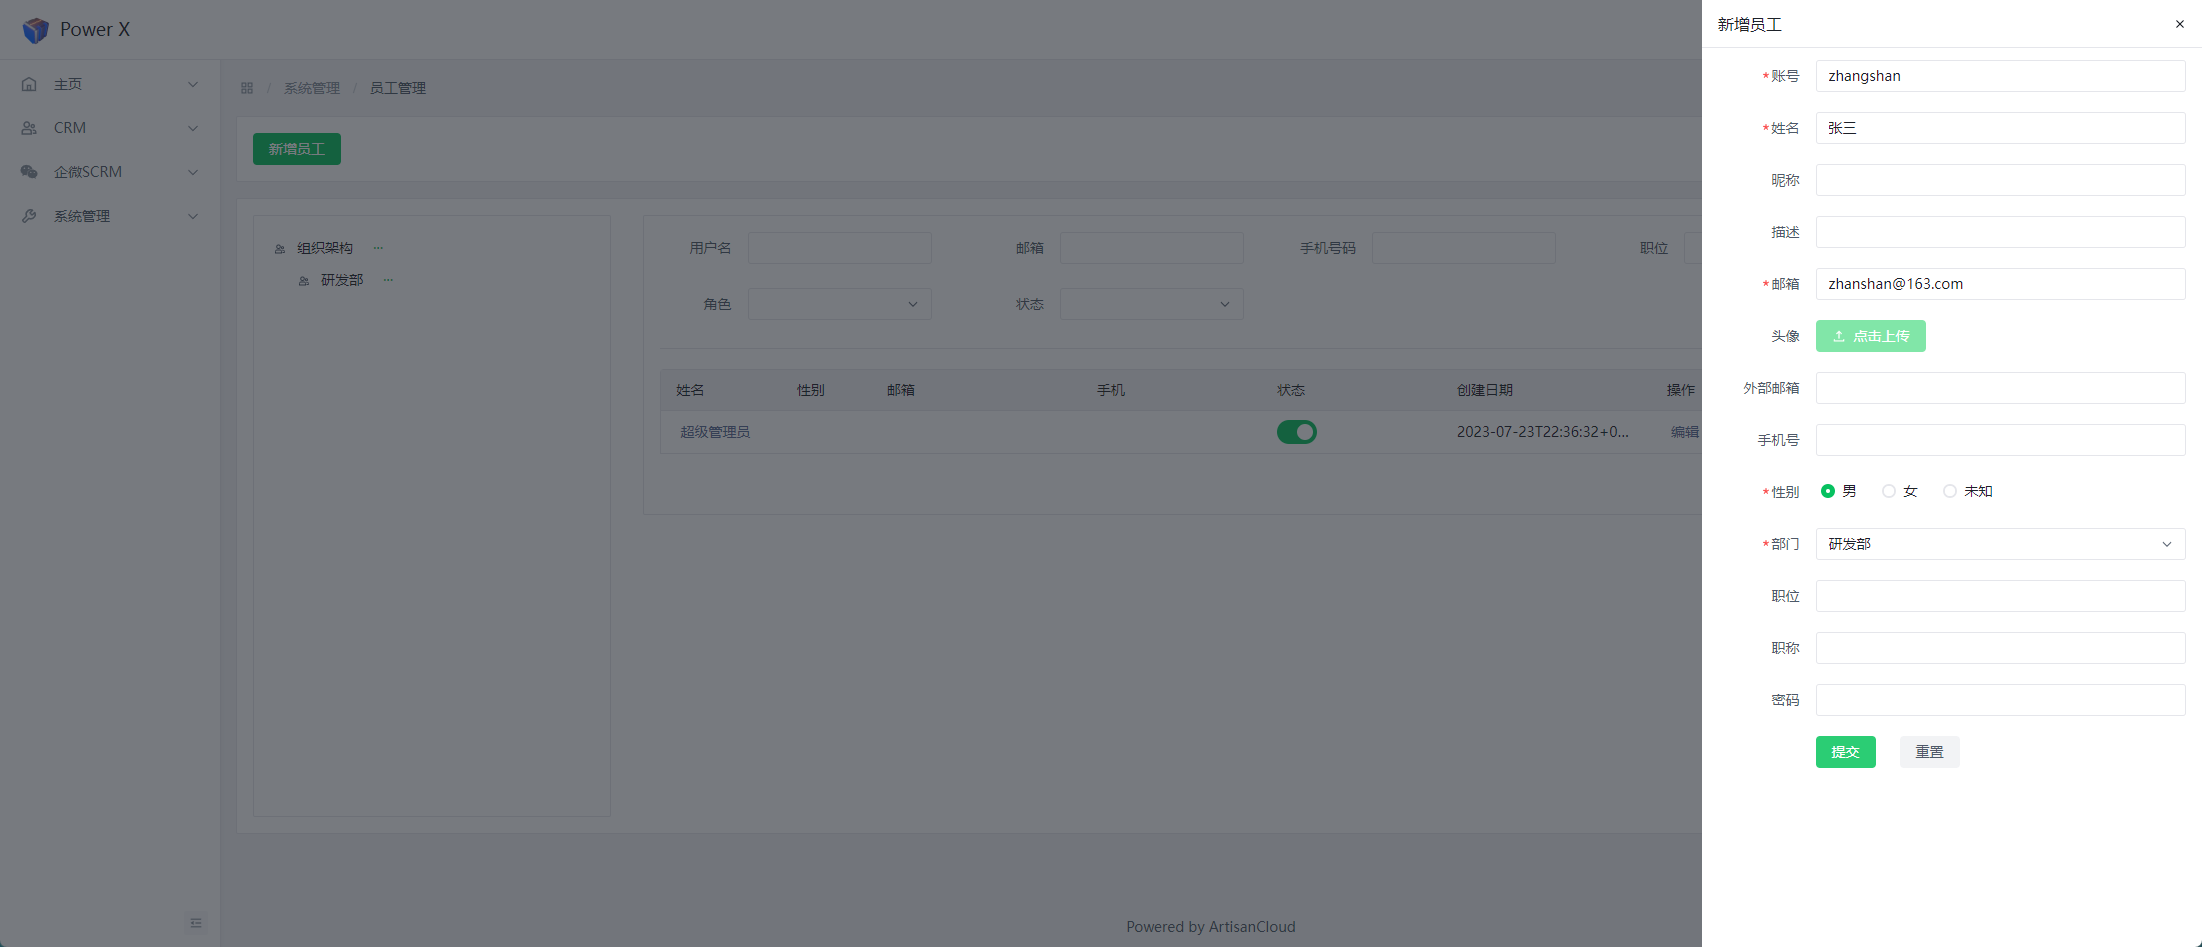
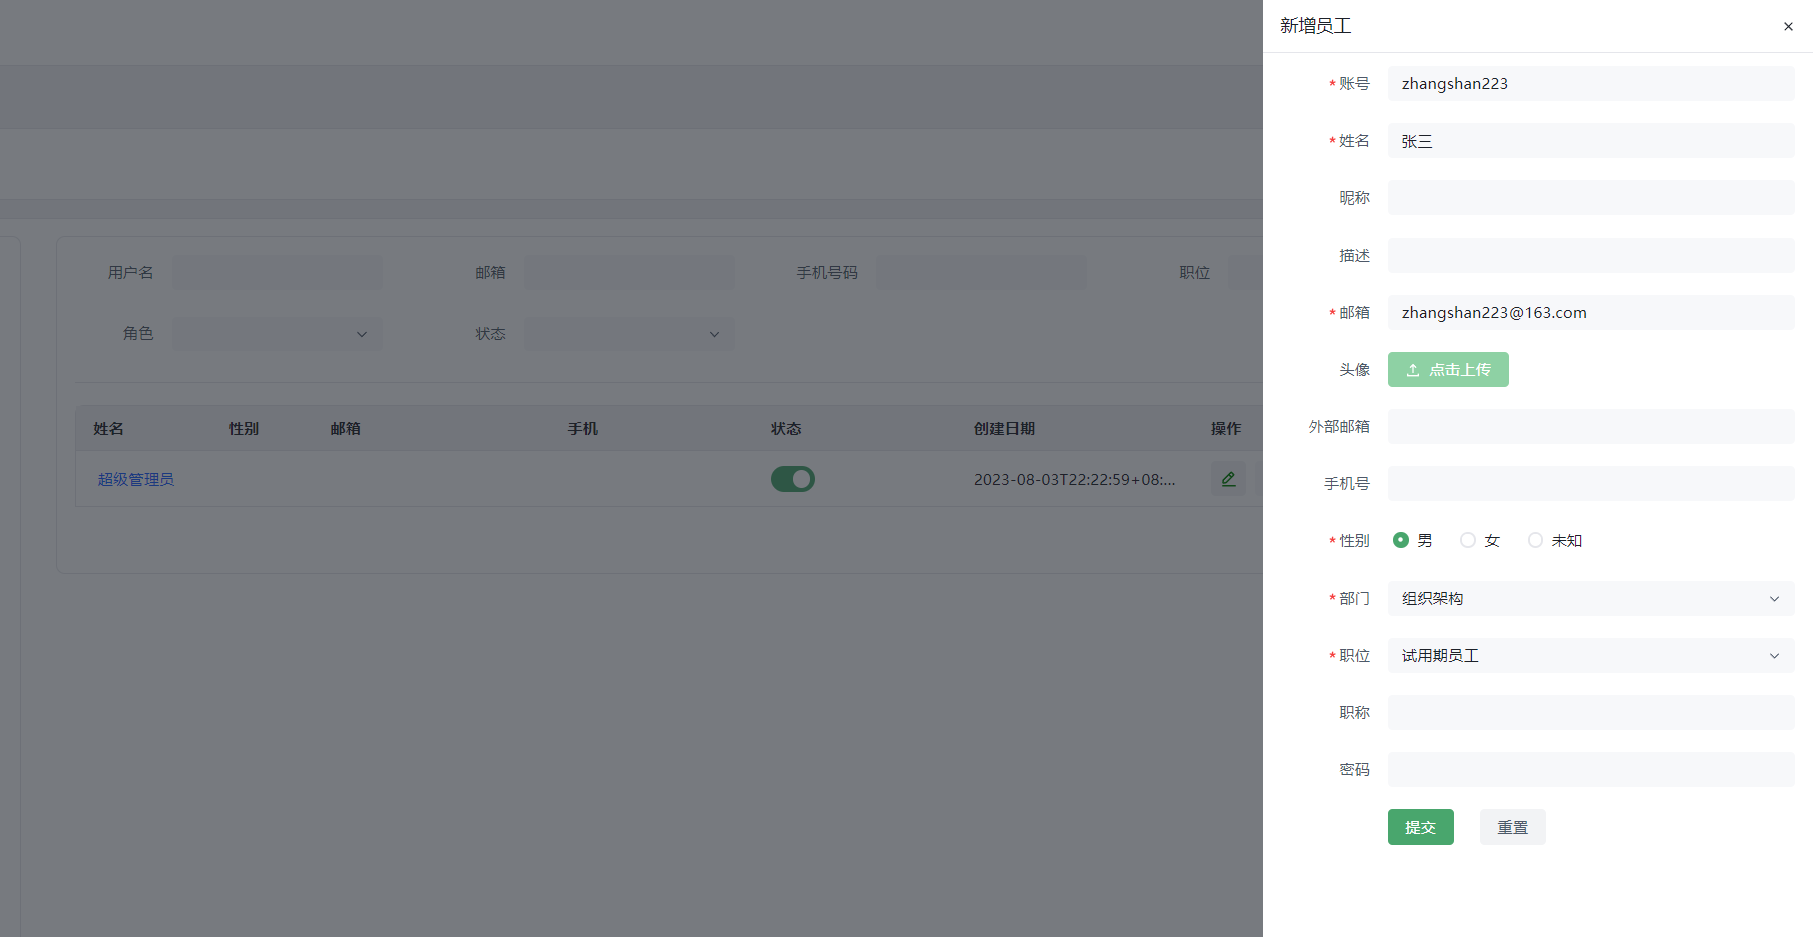
更新系统管理用户使用说明

diff --git a/docs/zh/v1/manual/crm/admin-system/employee-management/index.md b/docs/zh/v1/manual/crm/admin-system/employee-management/index.md
@@ -1,39 +1,26 @@
 # 员工管理
 
-在本页面中，您可以管理公司的员工信息，包括添加子部门、新增员工、编辑员工和删除员工等。
-![employee_management.png](images%2Femployee_management.png)
+员工管理页面主要用于管理系统员工, 可以执行添加员工、编辑员工、删除员工等操作, 创建员工后, 员工可以使用账号和初始密码进行登录
 
-## 添加子部门
+初始密码是: 123456
 
-1. 鼠标点击部门右侧的 ···, 然后点击出现的“添加子部门”按钮。
-2. 在弹出的对话框中，输入子部门的名称和其他相关信息。
-3. 点击“提交”按钮，新的子部门将被添加到部门列表中。
+## 操作
 
-## 新增员工
-
-1. 点击页面上的“新增员工”按钮。
-2. 在弹出的对话框中，输入员工的姓名、职位、邮箱、电话等信息。
-3. 为员工分配部门和角色。
-4. 点击“提交”按钮，新员工将被添加到员工列表中。
-
+### 添加子部门
+可以点开左侧部门栏部门右侧的"齿轮"图标，选择"添加子部门"
+![employee_add_department.png](images%2Femployee_add_department.png)
+在弹出的抽屉中填写相关信息，点击"提交"按钮即可完成添加。
+![employee_add_department_drawer.png](images%2Femployee_add_department_drawer.png)
+### 新增员工
+点击"添加员工"按钮，弹出抽屉，填写相关信息，点击"提交"按钮即可完成添加。
 ![add_employee.png](images%2Fadd_employee.png)
 
-## 编辑员工
+### 编辑员工
+点击员工列表中的编辑图标按钮，弹出抽屉，修改相关信息，点击"提交"按钮即可完成修改。
+![edit_employee_drawer.png](images%2Fedit_employee_drawer.png)
 
-1. 在员工列表中，找到需要编辑的员工。
-2. 点击该员工所在行的“编辑”按钮。
-3. 在弹出的对话框中，修改员工的相关信息。
-4. 点击“提交”按钮，员工信息将被更新。
-
-![edit-employee.png](images%2Fedit-employee.png)
-
-## 删除员工
-
-1. 在员工列表中，找到需要删除的员工。
-2. 点击该员工所在行的“删除”按钮。
-3. 在弹出的确认对话框中，点击“确定”按钮。
-4. 选定的员工将从员工列表中删除。
-
+### 删除员工
+点击员工列表中的删除图标按钮，弹出确认框，点击"确认"按钮即可完成删除。
 ![delete_employee.png](images%2Fdelete_employee.png)
 
 请注意，在执行删除操作时要谨慎，因为删除的员工信息将无法恢复。

diff --git a/docs/zh/v1/manual/crm/admin-system/permission-management/index.md b/docs/zh/v1/manual/crm/admin-system/permission-management/index.md
@@ -1,34 +1,23 @@
 # 角色管理
 
-在本页面中，您可以管理公司的角色信息，包括添加角色、编辑角色和编辑员工角色。
+角色管理用于管理系统中的角色，包括角色的基本属性和权限设置, 同时可以为员工分配角色。
 
 ## 添加角色
 
-1. 点击页面上的“添加角色”按钮。
-2. 在弹出的对话框中，输入角色的基本属性，如角色名称和角色编码（注意：角色编码必须唯一）。
-3. 设置角色的API权限（控制用户访问后端接口的权限）和菜单权限（控制用户可见的左侧菜单栏）。
-    - API权限：勾选允许角色访问的后端接口。未授权的接口访问将在页面上提示未授权。
-    - 菜单权限：勾选角色可见的左侧菜单栏。未勾选的菜单将对该角色的用户不可见。请注意，用户中心的授权应始终被授予给用户。
-4. 点击“提交”按钮，新的角色将被添加到角色列表中。
-
-![add_role.png](images%2Fadd_role.png)
+点击页面上的“添加角色”按钮, 在弹出的抽屉中，输入角色的基本属性和权限设置，点击“提交”按钮，角色将被添加。
+![add_role_drawer.png](images%2Fadd_role_drawer.png)
 
 ## 编辑角色
 
-1. 在角色列表中，找到需要编辑的角色。
-2. 点击该角色所在行的“编辑”按钮。
-3. 在弹出的对话框中，修改角色的基本属性和权限设置。
-4. 点击“提交”按钮，角色信息将被更新。
-
-![edit_role.png](images%2Fedit_role.png)
+在角色列表中，找到需要编辑的角色，点击该角色所在行的编辑图标按钮, 弹出抽屉，修改相关信息，点击"提交"按钮即可完成修改。
+![edit-role.png](images%2Fedit-role.png)
 
 ## 编辑员工角色
 
-1. 点击页面上的“编辑员工角色”按钮。
-2. 在弹出的对话框中，将需要分配的员工添加到已分配一栏。
-3. 点击“更新”按钮，员工的角色分配将被更新。
-
-![edit_employee_role.png](images%2Fedit_employee_role.png)
+在角色列表中，点击用户图标按钮, 弹出抽屉
+![role_employee.png](images%2Frole_employee.png)
+将未分配添加到已分配，或将已分配移除，点击"更新"按钮即可完成修改。
+![role_employee_drawer.png](images%2Frole_employee_drawer.png)
 
 在进行角色管理时，请确保角色的权限设置合理，以确保系统的安全性和用户体验。
 

diff --git a/docs/zh/v1/manual/crm/admin-system/organization-management/department-management/index.md b/docs/zh/v1/manual/crm/admin-system/organization-management/department-management/index.md
@@ -1,27 +1,19 @@
 # 部门管理
 
-在本页面中，您可以管理公司的部门信息，包括添加子部门、查看或编辑部门和删除部门。
-
-![department_list.png](images%2Fdepartment_list.png)
+部门管理用于管理企业的部门信息，包括部门名称、部门负责人、部门描述等。
 
 ## 添加子部门
 
-1. 点击页面上的“添加子部门”按钮。
-2. 在弹出的对话框中，输入子部门的名称和其他相关信息。
-3. 点击“提交”按钮，新的子部门将被添加到部门列表中。
+在部门列表中，找到需要添加子部门的部门, 点击"+"按钮
+![add_department_drawer.png](images%2Fadd_department_drawer.png)
+在弹出的抽屉中填写相关信息，点击"提交"按钮即可完成添加。
 
 ## 查看或编辑部门
 
-1. 在部门列表中，找到需要查看或编辑的部门。
-2. 点击该部门所在行的“详情”按钮。
-3. 在弹出的对话框中，查看或修改部门的相关信息。
-4. 如果进行了修改，点击“提交”按钮，部门信息将被更新。
+在部门列表中，找到需要查看或编辑的部门，点击该部门所在行的“查看”或“编辑”按钮, 弹出抽屉，修改相关信息，点击"提交"按钮即可完成修改。
 
 ## 删除部门
-
-1. 在部门列表中，找到需要删除的部门。
-2. 点击该部门所在行的“删除”按钮。
-3. 在弹出的确认对话框中，点击“确定”按钮。
-4. 选定的部门将从部门列表中删除。
+在部门列表中，找到需要删除的部门，点击该部门所在行的“删除”按钮, 弹出确认框，点击"确认"按钮即可完成删除。
+![delete_department.png](images%2Fdelete_department.png)
 
 请注意，在执行删除操作时要谨慎，因为删除的部门信息将无法恢复。
